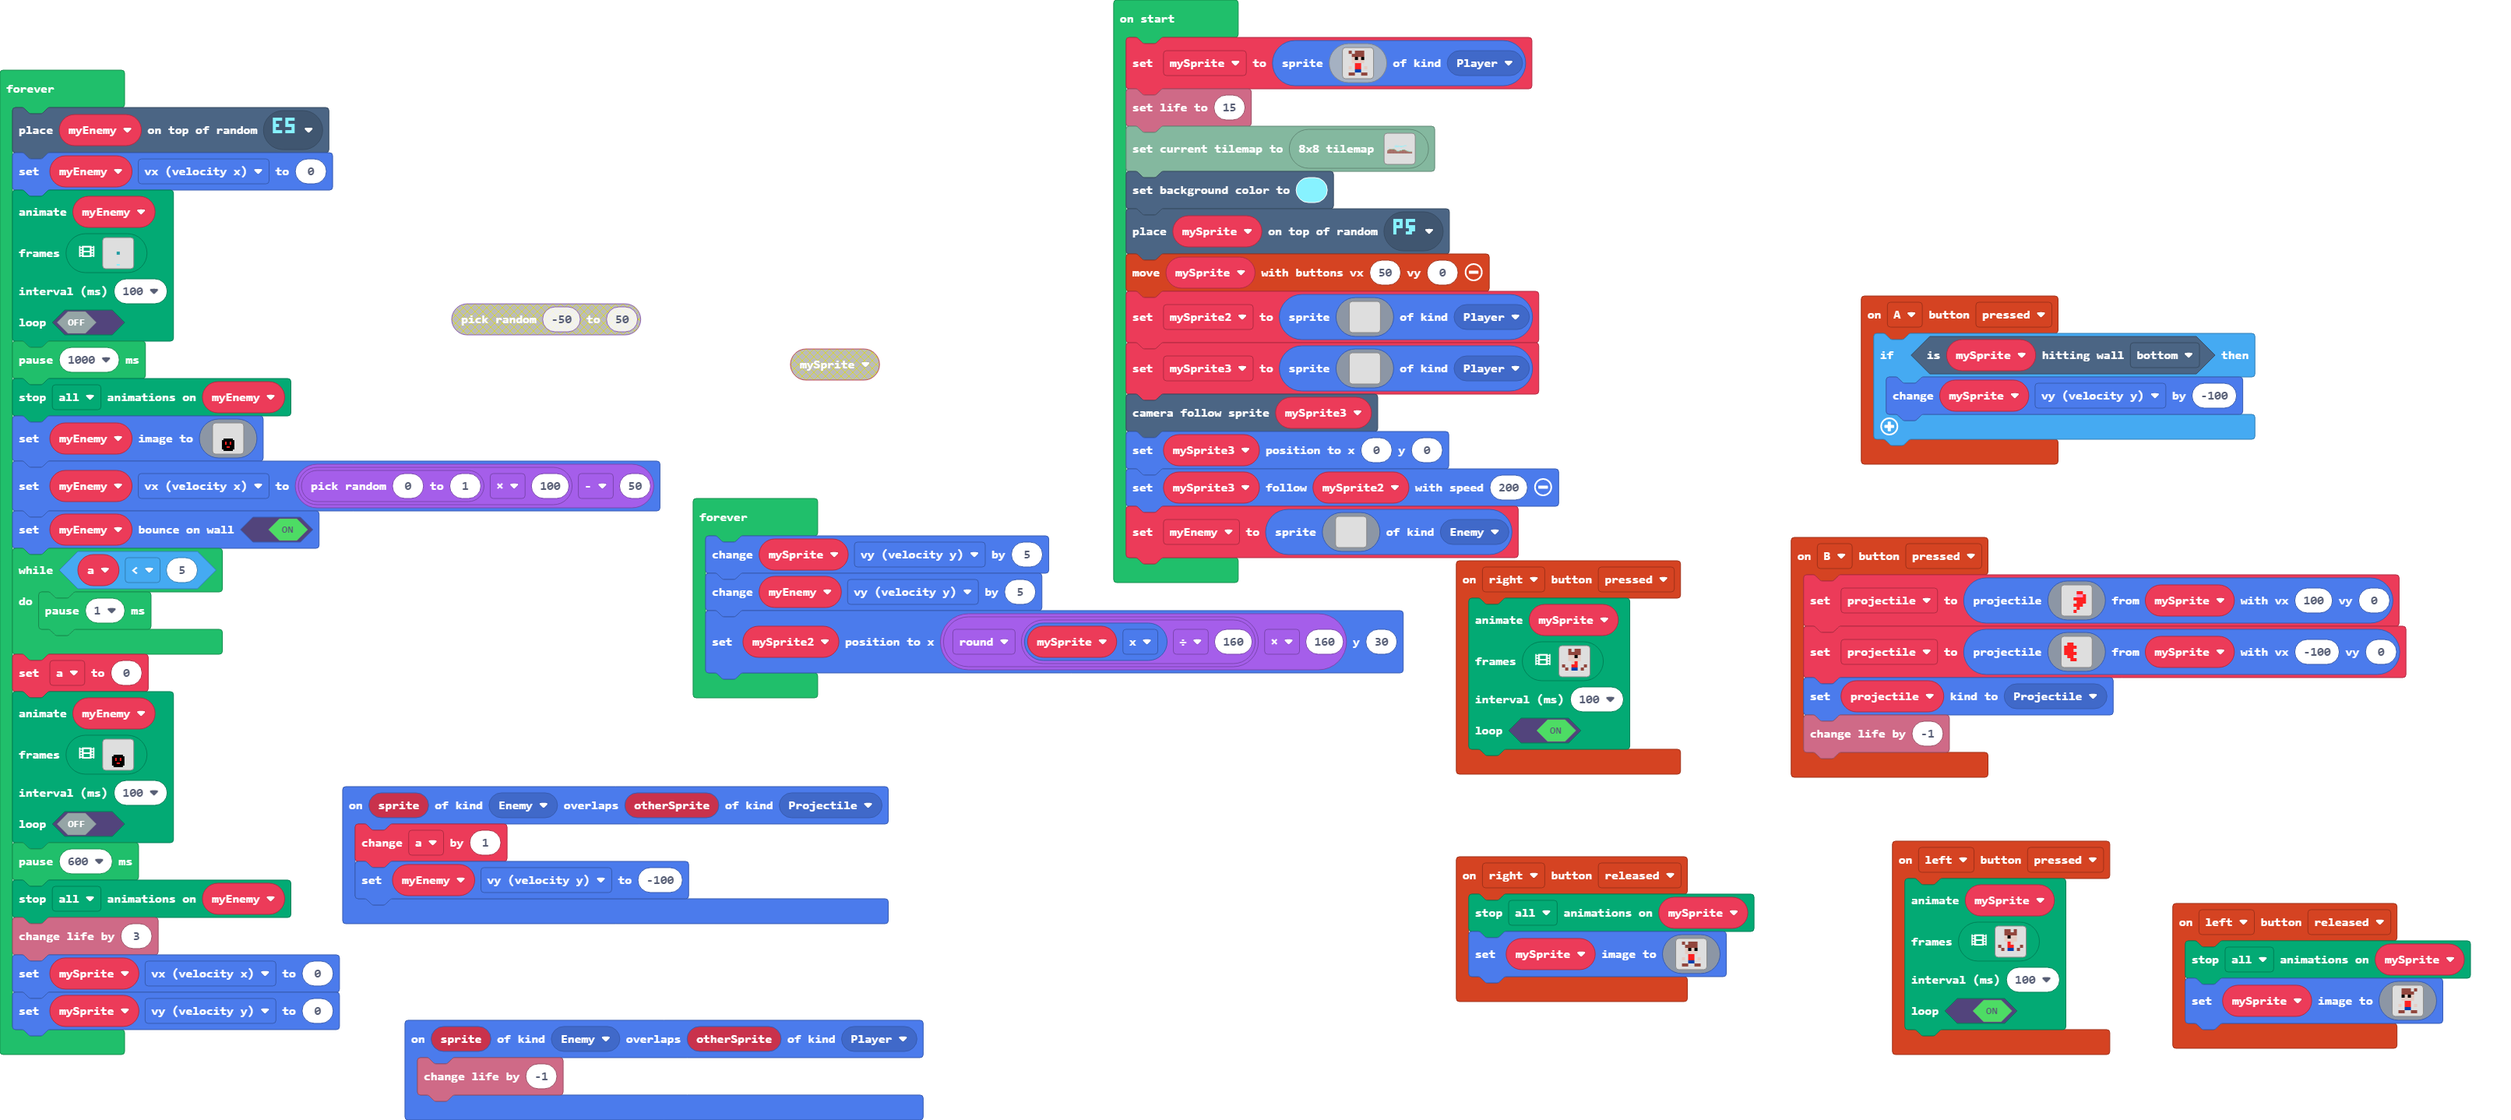
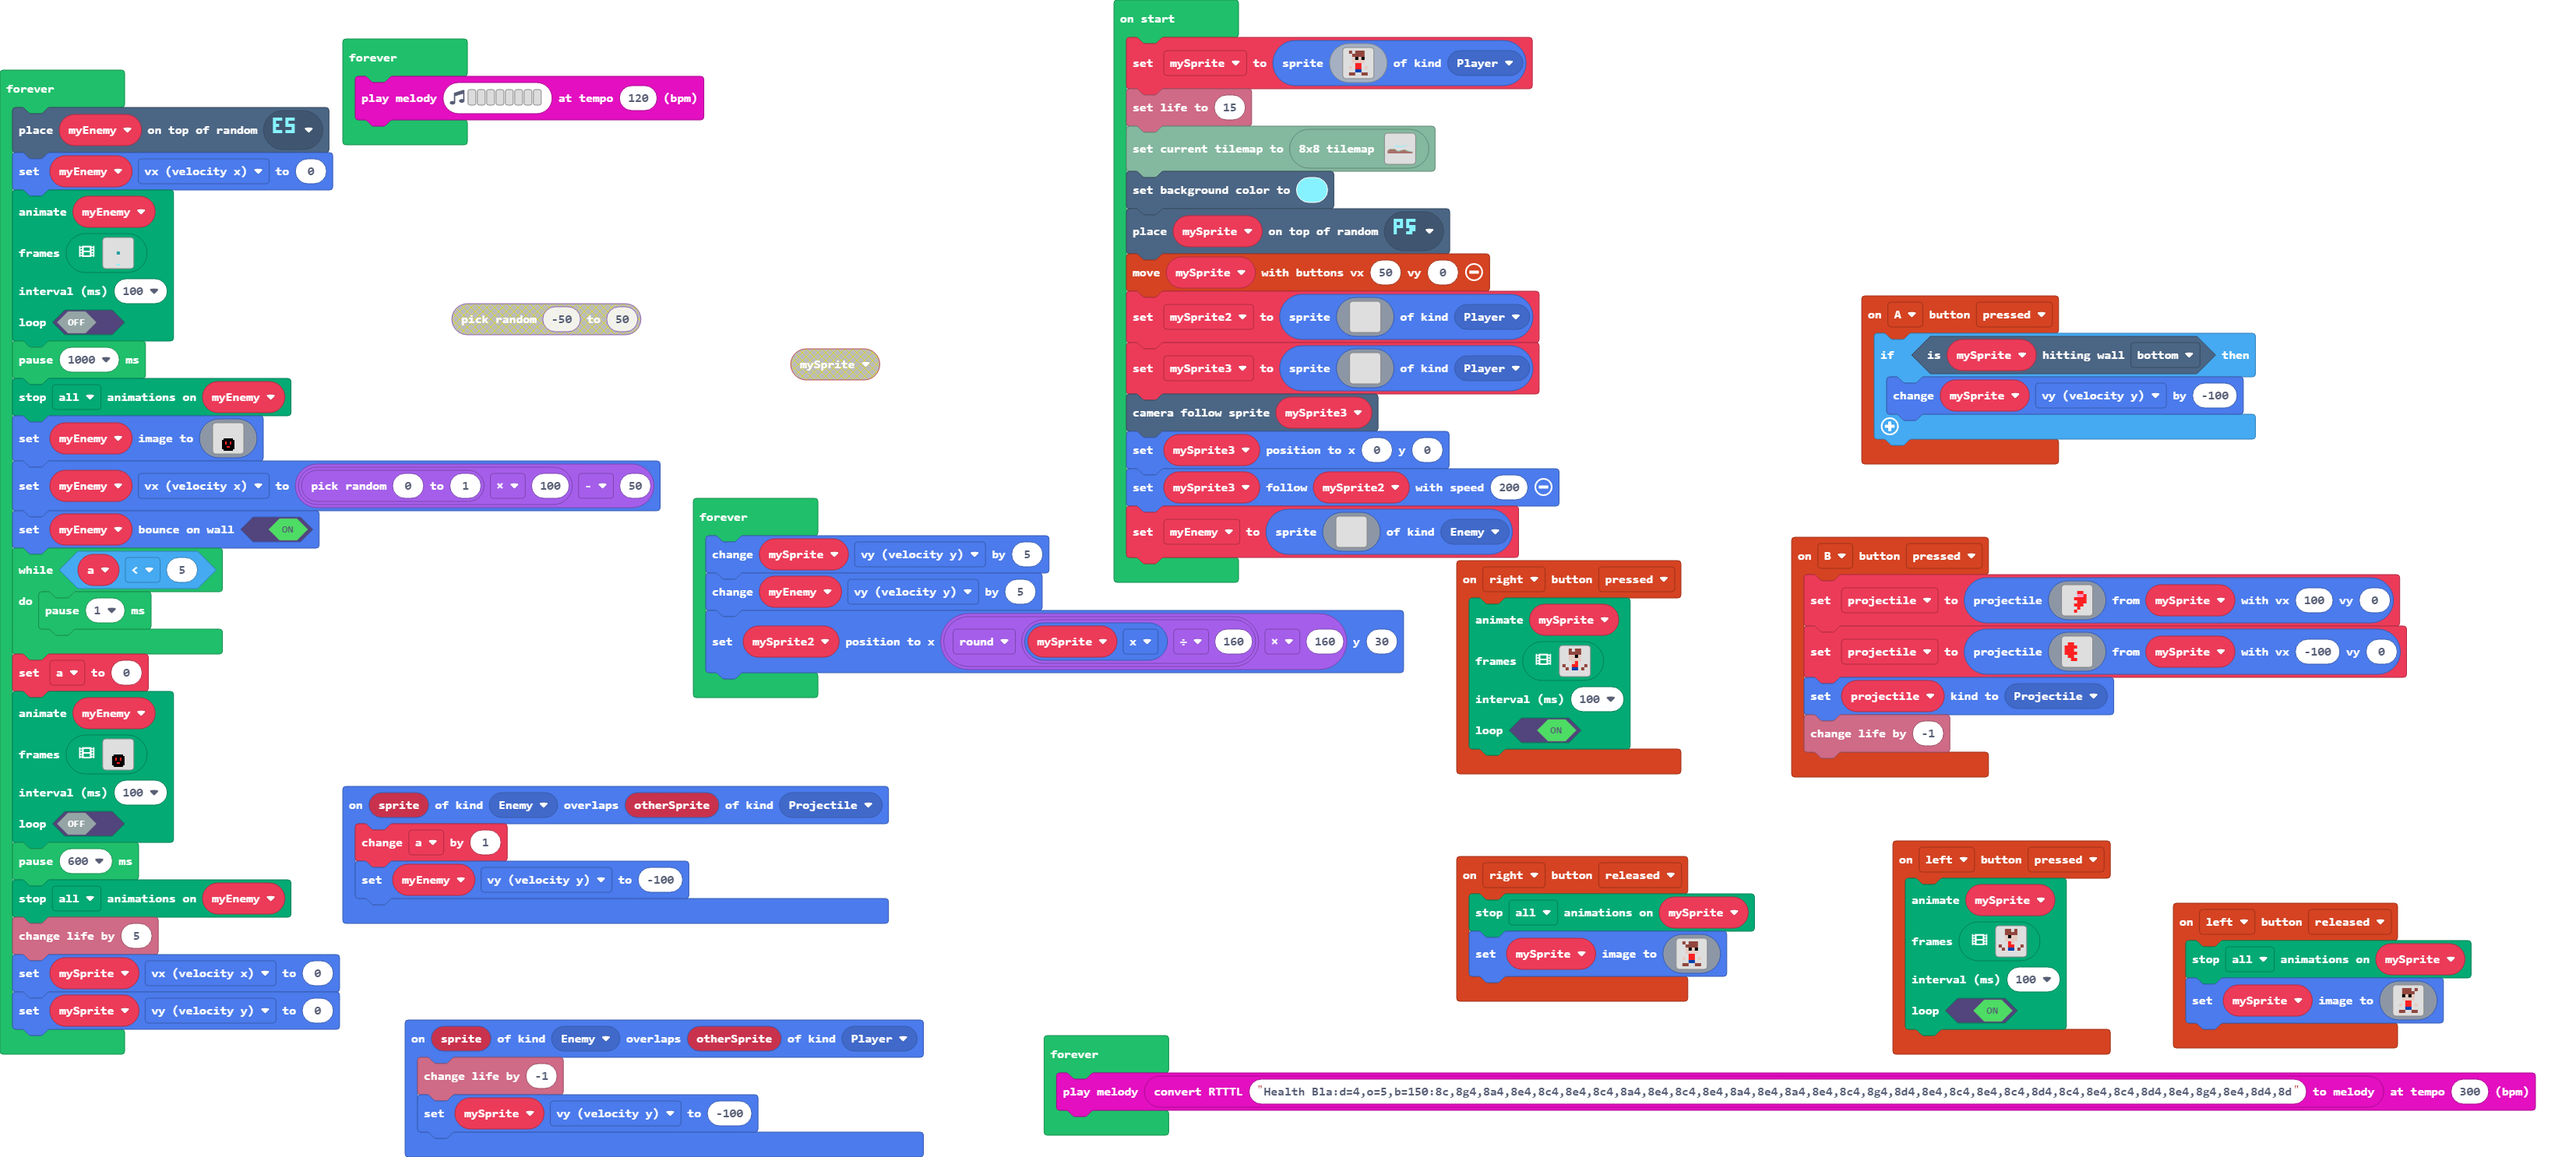
Update pxt.json, main.blocks, main.ts

diff --git a/main.ts b/main.ts
@@ -147,6 +147,7 @@ controller.right.onEvent(ControllerButtonEvent.Pressed, function () {
 })
 sprites.onOverlap(SpriteKind.Enemy, SpriteKind.Player, function (sprite, otherSprite) {
     info.changeLifeBy(-1)
+    mySprite.vy = -100
 })
 let a = 0
 let projectile: Sprite = null
@@ -224,6 +225,9 @@ myEnemy = sprites.create(img`
     . . . . . . . . . . . . . . . . 
     . . . . . . . . . . . . . . . . 
     `, SpriteKind.Enemy)
+forever(function () {
+    music.playMelody("- - - - - - - - ", 120)
+})
 forever(function () {
     tiles.placeOnRandomTile(myEnemy, assets.tile`myTile5`)
     myEnemy.vx = 0
@@ -556,7 +560,7 @@ forever(function () {
     )
     pause(600)
     animation.stopAnimation(animation.AnimationTypes.All, myEnemy)
-    info.changeLifeBy(3)
+    info.changeLifeBy(5)
     mySprite.vx = 0
     mySprite.vy = 0
 })
@@ -564,4 +568,7 @@ forever(function () {
     mySprite.vy += 5
     myEnemy.vy += 5
     mySprite2.setPosition(Math.round(mySprite.x / 160) * 160, 30)
+})
+forever(function () {
+    music.playMelody(music.convertRTTTLToMelody("Health Bla:d=4,o=5,b=150:8c,8g4,8a4,8e4,8c4,8e4,8c4,8a4,8e4,8c4,8e4,8a4,8e4,8a4,8e4,8c4,8g4,8d4,8e4,8c4,8e4,8c4,8d4,8c4,8e4,8c4,8d4,8e4,8g4,8e4,8d4,8d"), 300)
 })
